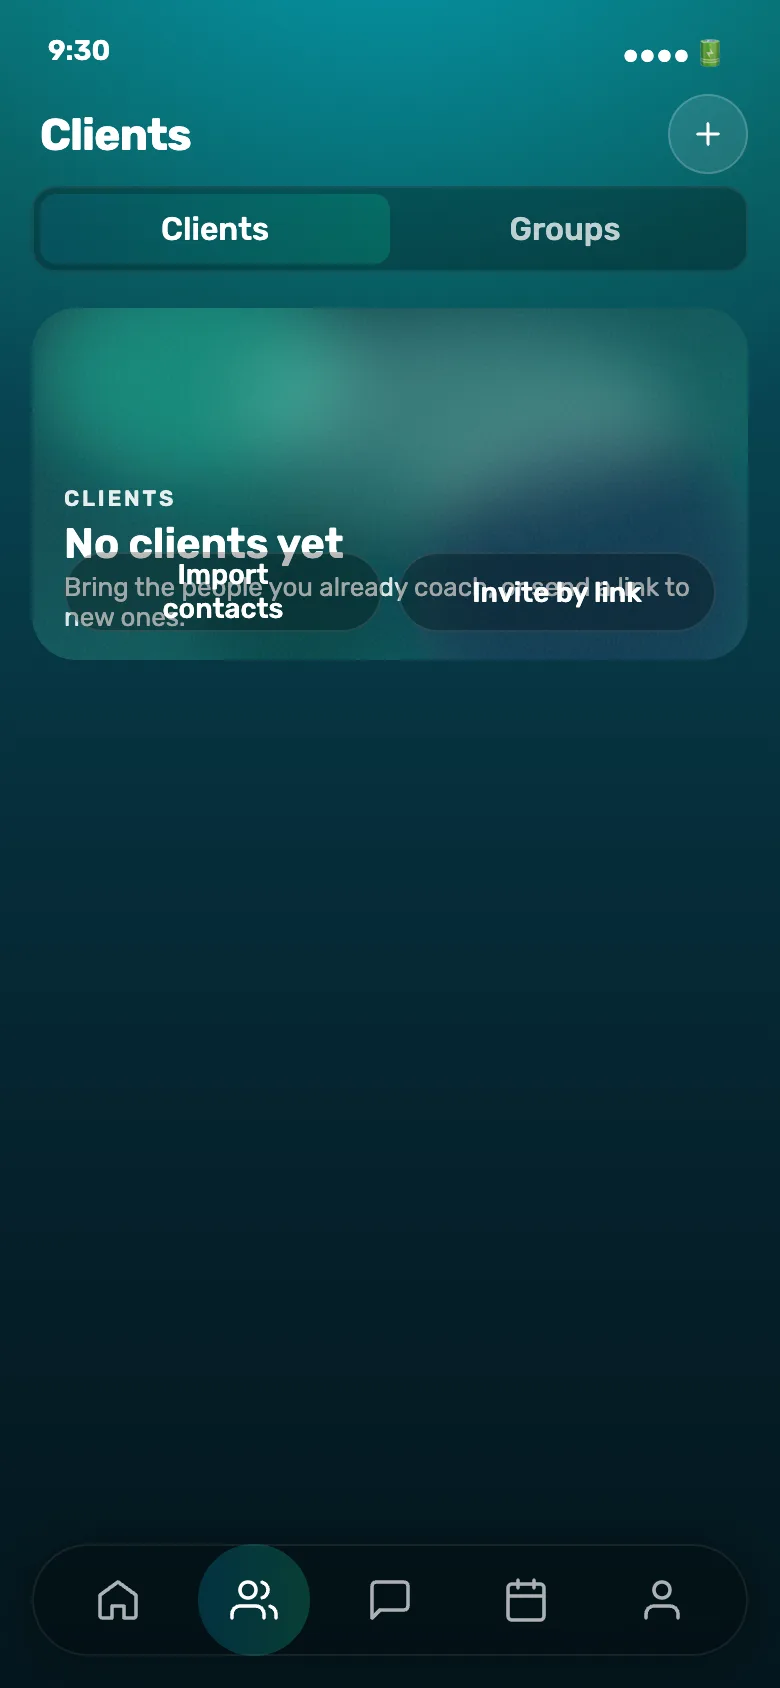
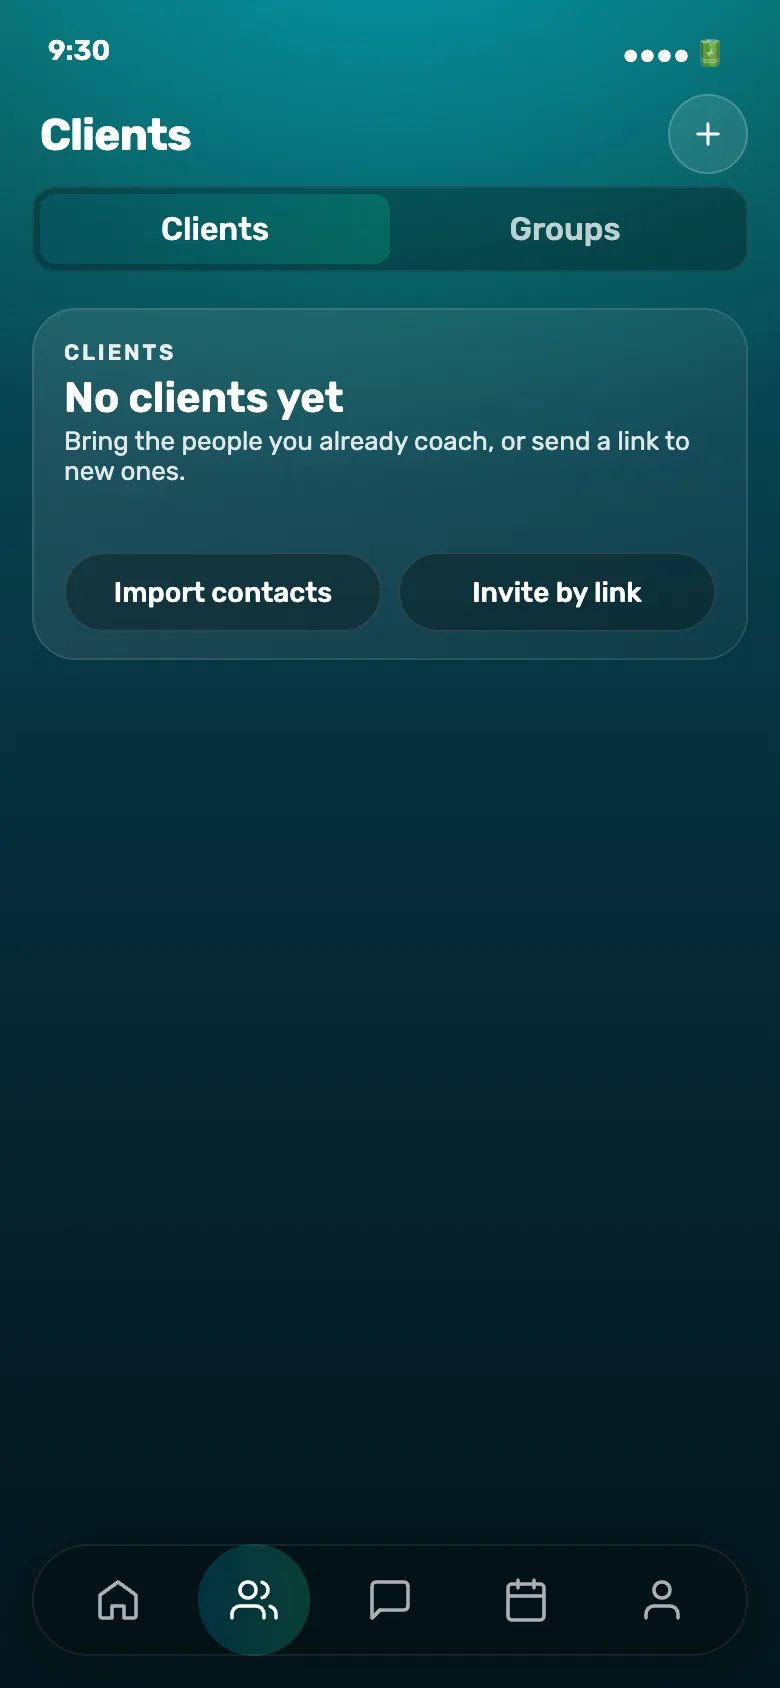
prototypes: fresh-coach card on Clients — the build had dropped the cd-s-* CSS family (text at the top, green wash); buttons no longer wrap; same fix applied to the Home build

Changed region(s): [[0.0615, 0.1848, 0.8923, 0.3697], [0.8, 0.3389, 0.8923, 0.3697], [0.6769, 0.3389, 0.7385, 0.3697]]

diff --git a/prototypes/flows/coach/clients-drafts.html b/prototypes/flows/coach/clients-drafts.html
@@ -575,6 +575,65 @@
   .fit-phone[class*="src-"].rs-default [data-review-state="default"],
   .fit-phone[class*="src-"].rs-sending [data-review-state="sending"],
   .fit-phone[class*="src-"].rs-error [data-review-state="error"] { display: block; }
+  /* --- Self-paced / Packages in J's language (cd-s-*, cd-p-*) --- */
+  .cd-s-person { display: flex; align-items: center; gap: 12px; margin: 4px 16px 14px; padding: 10px 12px; border-radius: 16px; }
+  .cd-s-person:active { background: var(--fit-surface-high); }
+  .cd-s-av { width: 40px; height: 40px; border-radius: 50%; display: flex; align-items: center; justify-content: center; font-size: 14px; font-weight: 600; background: var(--fit-surface-higher); color: var(--fit-text-primary); flex-shrink: 0; }
+  .fit-dark.k-alpha .cd-s-av { background: rgba(255,255,255,0.14); color: #fff; }
+  .cd-s-pname { font-size: 17px; font-weight: 600; color: var(--fit-text-primary); }
+  .cd-s-person .cd-i-tl { margin-top: 1px; }
+  .cd-s-pcount-empty, .cd-p-pcount-empty { display: none; }
+  /* the empty CTA card: green like the product, a clean wash (no photo, no blob); text at the top */
+  .cd-s-hero-empty { display: none; margin-top: 0; height: 160px; background: linear-gradient(135deg, rgba(0,167,208,0.50), rgba(5,224,166,0.22) 55%, rgba(5,224,166,0.06) 100%), linear-gradient(180deg, #10262b, #0b1a1e); }
+  .fit-dark.k-alpha .cd-s-hero-empty { background: linear-gradient(135deg, rgba(255,255,255,0.10), rgba(255,255,255,0.03)); box-shadow: inset 0 0 0 1px rgba(255,255,255,0.10); }
+  .cd-s-body-top { top: 16px; bottom: auto; }
+  .cd-s-go { display: flex; align-items: center; gap: 2px; font-size: 15px; font-weight: 600; color: var(--fit-text-primary); flex-shrink: 0; }
+  .cd-s-go svg { width: 16px; height: 16px; }
+  .cd-s-go-corner { position: absolute; right: 16px; bottom: 14px; color: #fff; }
+  .cd-s-n3, .cd-s-n5, .cd-s-more { display: none; }
+  #s-draft-selfpaced.sp-busy .cd-s-n1, #s-draft-selfpaced.sp-busy .cd-s-n2 { display: none; }
+  #s-draft-selfpaced.sp-busy .cd-s-n3, #s-draft-selfpaced.sp-busy .cd-s-n5 { display: inline; }
+  #s-draft-selfpaced.sp-busy .cd-g-row.cd-s-more { display: flex; }
+  #s-draft-selfpaced.sp-busy .cd-s-clip.cd-s-more { display: block; }
+  #s-draft-selfpaced .cd-s-sec-setup .cd-i-sec { padding-top: 6px; }
+  /* To set up = act on it: the same yellow perimeter + tint the calendar and J's Next session
+     use for a request, so "this is waiting on you" reads before the words do */
+  #s-draft-selfpaced .cd-s-sec-setup .cd-i-panel { outline: 1px solid var(--fit-yellow-600); outline-offset: -1px; background: rgba(222,145,29,0.10); }
+  #s-draft-selfpaced.fit-light .cd-s-sec-setup .cd-i-panel { background: rgba(222,145,29,0.20); }
+  #s-draft-selfpaced.fit-dark.k-alpha .cd-s-sec-setup .cd-i-panel { background: rgba(222,145,29,0.12); box-shadow: none; }
+  /* clips strip: a poster per clip, 3:2, play glyph + duration; no clip → a plate saying so */
+  .cd-s-strip { display: flex; gap: 10px; padding: 0 16px 4px; overflow-x: auto; scrollbar-width: none; }
+  .cd-s-strip::-webkit-scrollbar { display: none; }
+  .cd-s-clip { flex: 0 0 172px; }
+  .cd-s-poster { position: relative; height: 112px; border-radius: 16px; background: var(--fit-surface-high) center/cover no-repeat; margin-bottom: 8px; overflow: hidden; }
+  .cd-s-poster::after { content: ""; position: absolute; inset: 0; background: linear-gradient(180deg, transparent 50%, rgba(0,0,0,0.45)); }
+  .cd-s-play { position: absolute; left: 50%; top: 50%; transform: translate(-50%,-50%); width: 40px; height: 40px; border-radius: 50%; background: rgba(255,255,255,0.92); color: #12161a; display: flex; align-items: center; justify-content: center; z-index: 1; }
+  .cd-s-play svg { width: 18px; height: 18px; margin-left: 2px; }
+  .cd-s-dur { position: absolute; right: 10px; bottom: 8px; z-index: 1; font-size: 12px; font-weight: 600; color: #fff; }
+  .cd-s-poster--none { display: flex; flex-direction: column; align-items: center; justify-content: center; gap: 4px; color: var(--fit-text-tertiary); font-size: 12px; box-shadow: inset 0 0 0 1px var(--fit-divider); }
+  .cd-s-poster--none::after { display: none; }
+  .cd-s-poster--none svg { width: 22px; height: 22px; }
+  .fit-light .cd-s-poster { box-shadow: 0 8px 26px rgba(0,0,0,0.07); background-color: var(--fit-white); }
+  .fit-dark.k-alpha .cd-s-poster { background-color: rgba(0,0,0,0.28); }
+  .cd-g-rt .cd-i-tbar { margin-top: 7px; }
+  /* self-paced states */
+  #s-draft-selfpaced.sp-quiet .cd-s-sec-setup, #s-draft-selfpaced.sp-quiet .cd-s-sec-review { display: none; }
+  #s-draft-selfpaced.sp-quiet .cd-s-sec-active .cd-i-sec { padding-top: 6px; }
+  #s-draft-selfpaced.sp-empty .cd-s-sec-setup, #s-draft-selfpaced.sp-empty .cd-s-sec-review,
+  #s-draft-selfpaced.sp-empty .cd-s-sec-active, #s-draft-selfpaced.sp-empty .cd-s-sec-done,
+  #s-draft-selfpaced.sp-empty .cd-s-footer { display: none; }
+  #s-draft-selfpaced.sp-empty .cd-s-hero-empty { display: block; }
+  /* packages */
+  .cd-p-low { color: var(--fit-yellow-400); }
+  .cd-p-due { color: var(--fit-red-400); }
+  .cd-p-empty { display: none; }
+  #s-draft-packages.pk-empty .cd-p-sec-need, #s-draft-packages.pk-empty .cd-p-sec-list,
+  #s-draft-packages.pk-empty .cd-p-sec-done { display: none; }
+  #s-draft-packages.pk-empty .cd-p-empty { display: block; }
+  #s-draft-packages.pk-clean .cd-p-sec-need { display: none; }
+  /* groups membership: instant apply, no footer */
+  #s-add-to-group .fit-phone-footer { display: none; }
+
 
   /* --- Clients in J's grammar (cd-c-*) --- */
   #s-draft-clients:not(.k-alpha)::before { display: none; }   /* no wash: no identity block here */
@@ -607,7 +666,7 @@
   /* fresh */
   .cd-c-empty { display: none; margin-top: 8px; height: 176px; }
   .cd-c-empty-acts { position: absolute; left: 16px; right: 16px; bottom: 14px; display: flex; gap: 8px; }
-  .cd-c-empty-acts .fit-btn { flex: 1; height: 40px; font-size: 14px; }
+  .cd-c-empty-acts .fit-btn { flex: 1; height: 40px; font-size: 14px; padding: 0 10px; white-space: nowrap; }
   #s-draft-clients.c-fresh .cd-c-need-sec, #s-draft-clients.c-fresh .cd-c-sec-week, #s-draft-clients.c-fresh .cd-c-sec-all, #s-draft-clients.c-fresh .cd-c-search { display: none; }
   #s-draft-clients.c-fresh .cd-c-empty { display: block; }
   /* loading */

diff --git a/prototypes/flows/coach/dashboard-drafts.html b/prototypes/flows/coach/dashboard-drafts.html
@@ -575,6 +575,65 @@
   .fit-phone[class*="src-"].rs-default [data-review-state="default"],
   .fit-phone[class*="src-"].rs-sending [data-review-state="sending"],
   .fit-phone[class*="src-"].rs-error [data-review-state="error"] { display: block; }
+  /* --- Self-paced / Packages in J's language (cd-s-*, cd-p-*) --- */
+  .cd-s-person { display: flex; align-items: center; gap: 12px; margin: 4px 16px 14px; padding: 10px 12px; border-radius: 16px; }
+  .cd-s-person:active { background: var(--fit-surface-high); }
+  .cd-s-av { width: 40px; height: 40px; border-radius: 50%; display: flex; align-items: center; justify-content: center; font-size: 14px; font-weight: 600; background: var(--fit-surface-higher); color: var(--fit-text-primary); flex-shrink: 0; }
+  .fit-dark.k-alpha .cd-s-av { background: rgba(255,255,255,0.14); color: #fff; }
+  .cd-s-pname { font-size: 17px; font-weight: 600; color: var(--fit-text-primary); }
+  .cd-s-person .cd-i-tl { margin-top: 1px; }
+  .cd-s-pcount-empty, .cd-p-pcount-empty { display: none; }
+  /* the empty CTA card: green like the product, a clean wash (no photo, no blob); text at the top */
+  .cd-s-hero-empty { display: none; margin-top: 0; height: 160px; background: linear-gradient(135deg, rgba(0,167,208,0.50), rgba(5,224,166,0.22) 55%, rgba(5,224,166,0.06) 100%), linear-gradient(180deg, #10262b, #0b1a1e); }
+  .fit-dark.k-alpha .cd-s-hero-empty { background: linear-gradient(135deg, rgba(255,255,255,0.10), rgba(255,255,255,0.03)); box-shadow: inset 0 0 0 1px rgba(255,255,255,0.10); }
+  .cd-s-body-top { top: 16px; bottom: auto; }
+  .cd-s-go { display: flex; align-items: center; gap: 2px; font-size: 15px; font-weight: 600; color: var(--fit-text-primary); flex-shrink: 0; }
+  .cd-s-go svg { width: 16px; height: 16px; }
+  .cd-s-go-corner { position: absolute; right: 16px; bottom: 14px; color: #fff; }
+  .cd-s-n3, .cd-s-n5, .cd-s-more { display: none; }
+  #s-draft-selfpaced.sp-busy .cd-s-n1, #s-draft-selfpaced.sp-busy .cd-s-n2 { display: none; }
+  #s-draft-selfpaced.sp-busy .cd-s-n3, #s-draft-selfpaced.sp-busy .cd-s-n5 { display: inline; }
+  #s-draft-selfpaced.sp-busy .cd-g-row.cd-s-more { display: flex; }
+  #s-draft-selfpaced.sp-busy .cd-s-clip.cd-s-more { display: block; }
+  #s-draft-selfpaced .cd-s-sec-setup .cd-i-sec { padding-top: 6px; }
+  /* To set up = act on it: the same yellow perimeter + tint the calendar and J's Next session
+     use for a request, so "this is waiting on you" reads before the words do */
+  #s-draft-selfpaced .cd-s-sec-setup .cd-i-panel { outline: 1px solid var(--fit-yellow-600); outline-offset: -1px; background: rgba(222,145,29,0.10); }
+  #s-draft-selfpaced.fit-light .cd-s-sec-setup .cd-i-panel { background: rgba(222,145,29,0.20); }
+  #s-draft-selfpaced.fit-dark.k-alpha .cd-s-sec-setup .cd-i-panel { background: rgba(222,145,29,0.12); box-shadow: none; }
+  /* clips strip: a poster per clip, 3:2, play glyph + duration; no clip → a plate saying so */
+  .cd-s-strip { display: flex; gap: 10px; padding: 0 16px 4px; overflow-x: auto; scrollbar-width: none; }
+  .cd-s-strip::-webkit-scrollbar { display: none; }
+  .cd-s-clip { flex: 0 0 172px; }
+  .cd-s-poster { position: relative; height: 112px; border-radius: 16px; background: var(--fit-surface-high) center/cover no-repeat; margin-bottom: 8px; overflow: hidden; }
+  .cd-s-poster::after { content: ""; position: absolute; inset: 0; background: linear-gradient(180deg, transparent 50%, rgba(0,0,0,0.45)); }
+  .cd-s-play { position: absolute; left: 50%; top: 50%; transform: translate(-50%,-50%); width: 40px; height: 40px; border-radius: 50%; background: rgba(255,255,255,0.92); color: #12161a; display: flex; align-items: center; justify-content: center; z-index: 1; }
+  .cd-s-play svg { width: 18px; height: 18px; margin-left: 2px; }
+  .cd-s-dur { position: absolute; right: 10px; bottom: 8px; z-index: 1; font-size: 12px; font-weight: 600; color: #fff; }
+  .cd-s-poster--none { display: flex; flex-direction: column; align-items: center; justify-content: center; gap: 4px; color: var(--fit-text-tertiary); font-size: 12px; box-shadow: inset 0 0 0 1px var(--fit-divider); }
+  .cd-s-poster--none::after { display: none; }
+  .cd-s-poster--none svg { width: 22px; height: 22px; }
+  .fit-light .cd-s-poster { box-shadow: 0 8px 26px rgba(0,0,0,0.07); background-color: var(--fit-white); }
+  .fit-dark.k-alpha .cd-s-poster { background-color: rgba(0,0,0,0.28); }
+  .cd-g-rt .cd-i-tbar { margin-top: 7px; }
+  /* self-paced states */
+  #s-draft-selfpaced.sp-quiet .cd-s-sec-setup, #s-draft-selfpaced.sp-quiet .cd-s-sec-review { display: none; }
+  #s-draft-selfpaced.sp-quiet .cd-s-sec-active .cd-i-sec { padding-top: 6px; }
+  #s-draft-selfpaced.sp-empty .cd-s-sec-setup, #s-draft-selfpaced.sp-empty .cd-s-sec-review,
+  #s-draft-selfpaced.sp-empty .cd-s-sec-active, #s-draft-selfpaced.sp-empty .cd-s-sec-done,
+  #s-draft-selfpaced.sp-empty .cd-s-footer { display: none; }
+  #s-draft-selfpaced.sp-empty .cd-s-hero-empty { display: block; }
+  /* packages */
+  .cd-p-low { color: var(--fit-yellow-400); }
+  .cd-p-due { color: var(--fit-red-400); }
+  .cd-p-empty { display: none; }
+  #s-draft-packages.pk-empty .cd-p-sec-need, #s-draft-packages.pk-empty .cd-p-sec-list,
+  #s-draft-packages.pk-empty .cd-p-sec-done { display: none; }
+  #s-draft-packages.pk-empty .cd-p-empty { display: block; }
+  #s-draft-packages.pk-clean .cd-p-sec-need { display: none; }
+  /* groups membership: instant apply, no footer */
+  #s-add-to-group .fit-phone-footer { display: none; }
+
 
   /* --- Dashboard in J's grammar (cd-d-*) --- */
   /* Plain look: the green wash belongs to an identity block (Client / Coach Detail); Home has none,

diff --git a/prototypes/board/board-data.js b/prototypes/board/board-data.js
@@ -2603,7 +2603,7 @@ window.FIT_BOARD = {
       "screens": [
         {
           "id": "s-draft-dash",
-          "hash": "d4a899267d7f",
+          "hash": "83ccd620a1f0",
           "title": "Home, placed",
           "inApp": "",
           "status": "proposal",
@@ -2646,7 +2646,7 @@ window.FIT_BOARD = {
         },
         {
           "id": "s-draft-collect",
-          "hash": "6d8bf88756ed",
+          "hash": "bcfaac8cb386",
           "title": "↳ Cash to collect (push)",
           "inApp": "Cash to collect",
           "status": "proposal",
@@ -2665,7 +2665,7 @@ window.FIT_BOARD = {
         },
         {
           "id": "s-notifications",
-          "hash": "ceee6504ef2e",
+          "hash": "9d17646bf06b",
           "title": "↳ Inbox",
           "inApp": "Inbox",
           "status": "proposal",
@@ -2684,7 +2684,7 @@ window.FIT_BOARD = {
         },
         {
           "id": "s-review-queue",
-          "hash": "0f39c8965b50",
+          "hash": "82a7beb26667",
           "title": "↳ Sessions to review",
           "inApp": "Sessions to review",
           "status": "proposal",
@@ -2703,7 +2703,7 @@ window.FIT_BOARD = {
         },
         {
           "id": "s-earnings",
-          "hash": "f42b22c55c3e",
+          "hash": "0e1375f4a8d2",
           "title": "↳ Earnings",
           "inApp": "Earnings",
           "status": "proposal",
@@ -2722,7 +2722,7 @@ window.FIT_BOARD = {
         },
         {
           "id": "s-schedule-pick-athlete",
-          "hash": "ea3a611bd286",
+          "hash": "0c7a515a657d",
           "title": "↳ Book · athlete",
           "inApp": "Choose athlete",
           "status": "proposal",
@@ -2741,7 +2741,7 @@ window.FIT_BOARD = {
         },
         {
           "id": "s-invite-select",
-          "hash": "60030d0507b6",
+          "hash": "fa0b99a6e813",
           "title": "↳ Book · session",
           "inApp": "Select training",
           "status": "proposal",
@@ -2763,7 +2763,7 @@ window.FIT_BOARD = {
         },
         {
           "id": "s-invite-time",
-          "hash": "75a1ebcaca98",
+          "hash": "6f7caadb7b1f",
           "title": "↳ Book · time",
           "inApp": "",
           "status": "proposal",
@@ -2783,7 +2783,7 @@ window.FIT_BOARD = {
         },
         {
           "id": "s-schedule-review",
-          "hash": "9d372785b3e6",
+          "hash": "bda37b42f058",
           "title": "↳ Book · review",
           "inApp": "Review request",
           "status": "proposal",
@@ -2803,7 +2803,7 @@ window.FIT_BOARD = {
         },
         {
           "id": "s-block-time-off",
-          "hash": "0fbb0508f5a0",
+          "hash": "9fa06e5336b4",
           "title": "↳ Time off",
           "inApp": "Busy time",
           "status": "proposal",
@@ -3278,7 +3278,7 @@ window.FIT_BOARD = {
       "screens": [
         {
           "id": "s-draft-clients",
-          "hash": "59852081cb75",
+          "hash": "8bf97bf79476",
           "title": "Clients, placed",
           "inApp": "",
           "status": "proposal",
@@ -3308,7 +3308,7 @@ window.FIT_BOARD = {
         },
         {
           "id": "s-archived",
-          "hash": "bbb7cea7964b",
+          "hash": "b8bcdc8770f4",
           "title": "↳ Archived & Blocked",
           "inApp": "Archived & Blocked",
           "status": "proposal",
@@ -3327,7 +3327,7 @@ window.FIT_BOARD = {
         },
         {
           "id": "s-import-contacts",
-          "hash": "62742ae2d546",
+          "hash": "238b72fb9cce",
           "title": "↳ Import contacts",
           "inApp": "Import contacts",
           "status": "proposal",
@@ -3346,7 +3346,7 @@ window.FIT_BOARD = {
         },
         {
           "id": "s-import-done",
-          "hash": "74153ab6d499",
+          "hash": "06048c4ed1e7",
           "title": "↳ Import done",
           "inApp": "",
           "status": "proposal",
@@ -3366,7 +3366,7 @@ window.FIT_BOARD = {
         },
         {
           "id": "s-create-client",
-          "hash": "247fe7ba6109",
+          "hash": "be8fa88a984f",
           "title": "↳ Create client",
           "inApp": "New client",
           "status": "proposal",
@@ -3385,7 +3385,7 @@ window.FIT_BOARD = {
         },
         {
           "id": "s-group-smart",
-          "hash": "8546b925caaa",
+          "hash": "7f851173e0ba",
           "title": "↳ Smart group (from a chip)",
           "inApp": "Owes money",
           "status": "proposal",
@@ -3405,7 +3405,7 @@ window.FIT_BOARD = {
         },
         {
           "id": "s-group-detail",
-          "hash": "6f72072d978a",
+          "hash": "0f5a9290d4f4",
           "title": "↳ Group",
           "inApp": "Morning",
           "status": "proposal",
@@ -3440,7 +3440,7 @@ window.FIT_BOARD = {
         },
         {
           "id": "s-group-create",
-          "hash": "6d4e9ebd6648",
+          "hash": "178a47969e03",
           "title": "↳ Create group",
           "inApp": "New group",
           "status": "proposal",

diff --git a/prototypes/board.html b/prototypes/board.html
@@ -309,7 +309,7 @@
 <div class="note" id="note"></div>
 <div class="hint">Scroll to pan · ⌘/Ctrl + scroll to zoom · drag the canvas · click a screen to open the live prototype · <b>\</b> screen list</div>
 
-<script src="./board/board-data.js?v=1cafc73592"></script>
+<script src="./board/board-data.js?v=dc9a101b5e"></script>
 <script>
 // ---------------------------------------------------------------------------
 // Layout constants. Positions are computed from the graph — nothing is authored.
